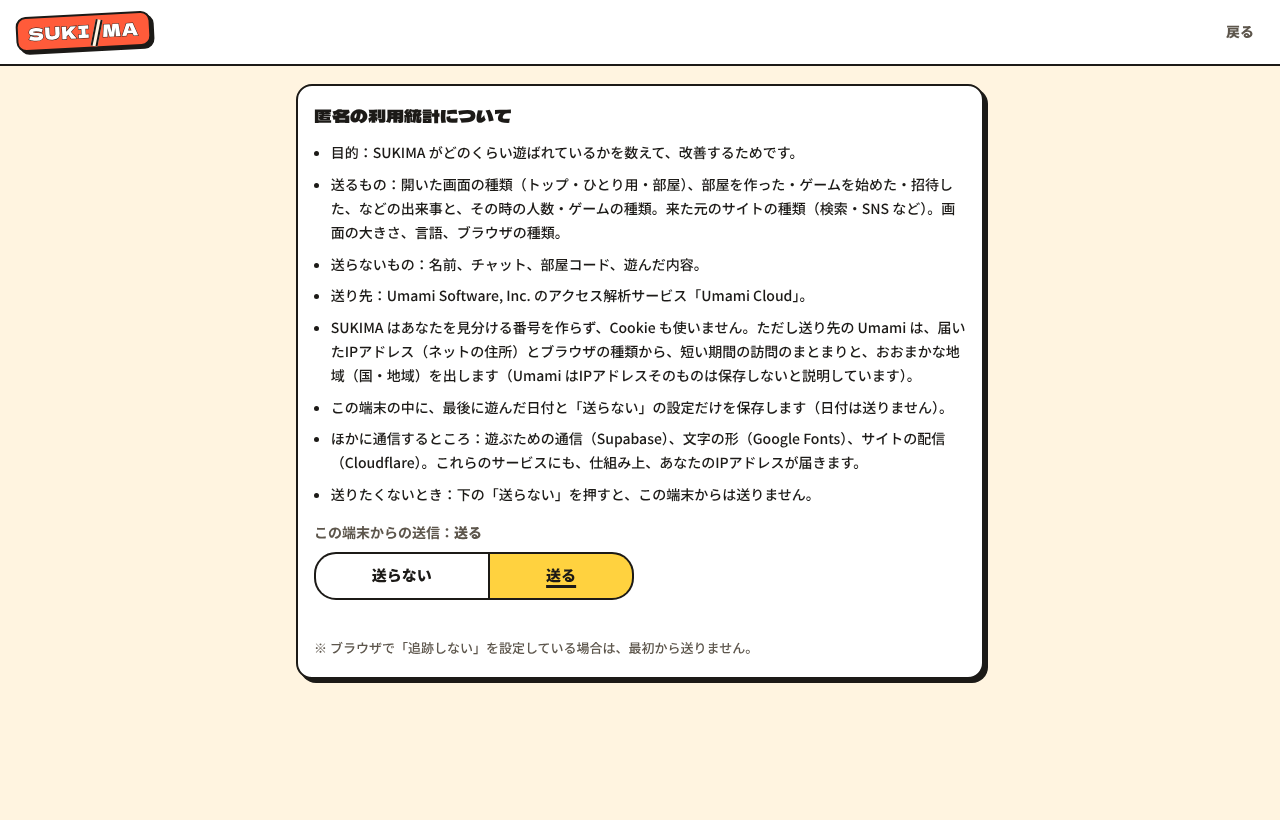
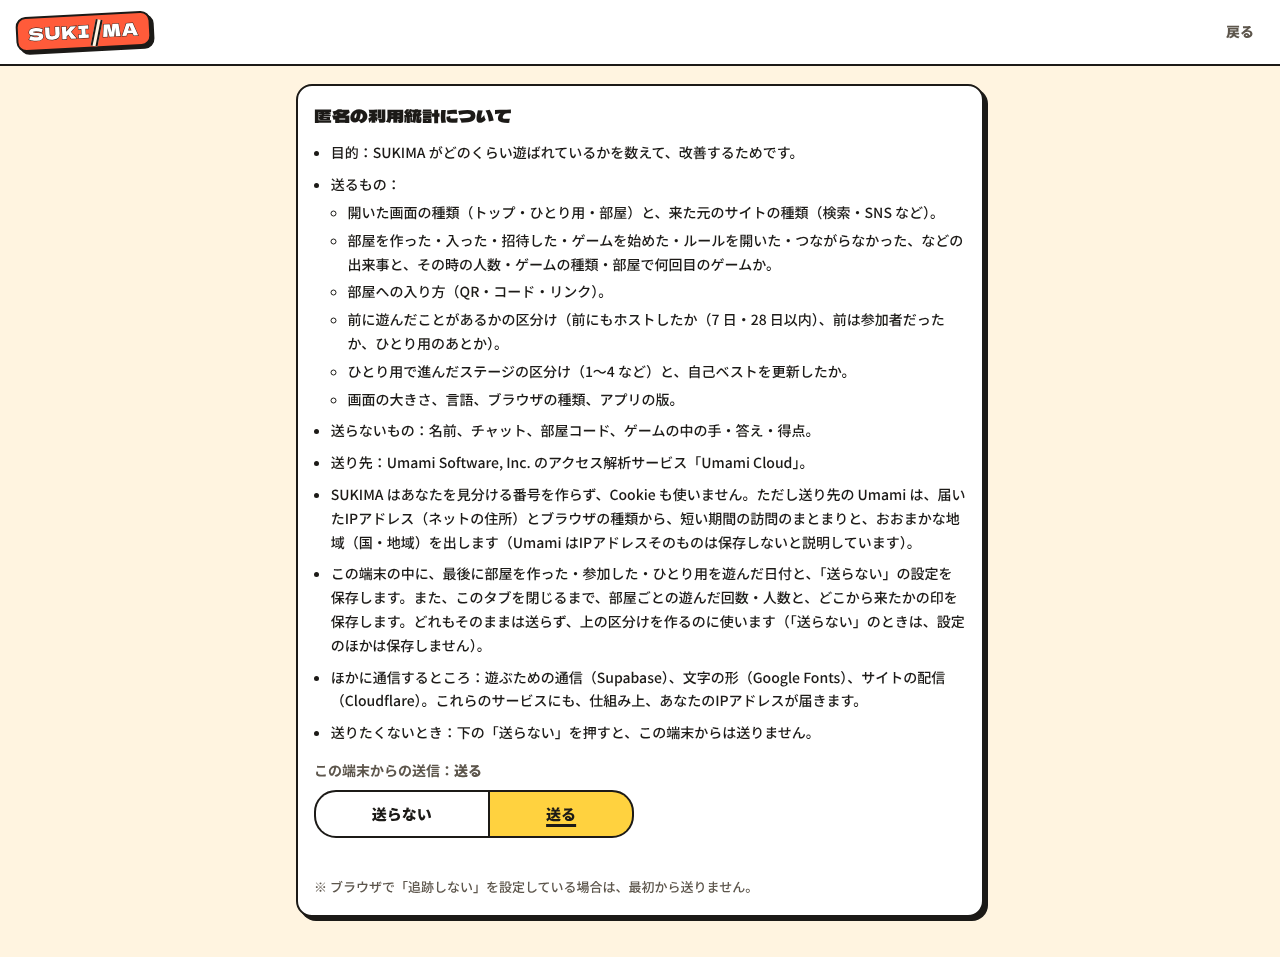
Privacy: describe all sent and stored metrics data (M-6)
Claude-Session: https://claude.ai/code/session_01H41cTqMxdqRgXVNK8y2DkT

Changed region(s): [[0.0, 0.0, 1.0, 0.9756], [0.6562, 0.3049, 0.7188, 0.3659]]

diff --git a/src/components/Privacy.tsx b/src/components/Privacy.tsx
@@ -22,17 +22,30 @@ export function PrivacyContent() {
       <ul className="privacy-list">
         <li>目的：SUKIMA がどのくらい遊ばれているかを数えて、改善するためです。</li>
         <li>
-          送るもの：開いた画面の種類（トップ・ひとり用・部屋）、部屋を作った・ゲームを始めた・招待した、などの出来事と、その時の人数・ゲームの種類。来た元のサイトの種類（検索・SNS
-          など）。画面の大きさ、言語、ブラウザの種類。
+          送るもの：
+          <ul className="privacy-sublist">
+            <li>開いた画面の種類（トップ・ひとり用・部屋）と、来た元のサイトの種類（検索・SNS など）。</li>
+            <li>
+              部屋を作った・入った・招待した・ゲームを始めた・ルールを開いた・つながらなかった、などの出来事と、その時の人数・ゲームの種類・部屋で何回目のゲームか。
+            </li>
+            <li>部屋への入り方（QR・コード・リンク）。</li>
+            <li>
+              前に遊んだことがあるかの区分け（前にもホストしたか（7 日・28 日以内）、前は参加者だったか、ひとり用のあとか）。
+            </li>
+            <li>ひとり用で進んだステージの区分け（1〜4 など）と、自己ベストを更新したか。</li>
+            <li>画面の大きさ、言語、ブラウザの種類、アプリの版。</li>
+          </ul>
         </li>
-        <li>送らないもの：名前、チャット、部屋コード、遊んだ内容。</li>
+        <li>送らないもの：名前、チャット、部屋コード、ゲームの中の手・答え・得点。</li>
         <li>送り先：Umami Software, Inc. のアクセス解析サービス「Umami Cloud」。</li>
         <li>
           SUKIMA はあなたを見分ける番号を作らず、Cookie も使いません。ただし送り先の Umami
           は、届いたIPアドレス（ネットの住所）とブラウザの種類から、短い期間の訪問のまとまりと、おおまかな地域（国・地域）を出します（Umami
           はIPアドレスそのものは保存しないと説明しています）。
         </li>
-        <li>この端末の中に、最後に遊んだ日付と「送らない」の設定だけを保存します（日付は送りません）。</li>
+        <li>
+          この端末の中に、最後に部屋を作った・参加した・ひとり用を遊んだ日付と、「送らない」の設定を保存します。また、このタブを閉じるまで、部屋ごとの遊んだ回数・人数と、どこから来たかの印を保存します。どれもそのままは送らず、上の区分けを作るのに使います（「送らない」のときは、設定のほかは保存しません）。
+        </li>
         <li>
           ほかに通信するところ：遊ぶための通信（Supabase）、文字の形（Google Fonts）、サイトの配信（Cloudflare）。これらのサービスにも、仕組み上、あなたのIPアドレスが届きます。
         </li>

diff --git a/src/styles.css b/src/styles.css
@@ -3282,3 +3282,12 @@ button.card {
 .privacy-dialog .panel-head h2 {
   font-size: 17px;
 }
+
+/* 「送るもの」の内訳。項目が多いので、360px でも 1 つずつ読めるよう箇条書きに分ける */
+.privacy-sublist {
+  margin: 4px 0 0;
+  padding-left: 1.2em;
+  display: grid;
+  gap: 4px;
+  list-style: circle;
+}
